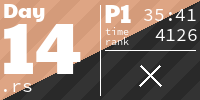
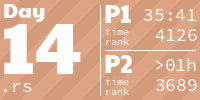
part 2

diff --git a/src/day14.rs b/src/day14.rs
@@ -40,7 +40,7 @@ fn move_robots(robots: &[Robot], area: &V2) -> Vec<Robot> {
     robots.iter().map(|robot| move_robot(robot, area)).collect()
 }
 
-fn p1(area: V2, input: &str) -> i64 {
+fn p1(area: V2, input: &str) -> i32 {
     let mut robots = parse_robots(input);
     for _ in 0..100 {
         robots = move_robots(&robots, &area);
@@ -53,7 +53,7 @@ fn p1(area: V2, input: &str) -> i64 {
     let mut bot_right = 0;
 
     let center = V2::new((area.x - 1) / 2, (area.y - 1) / 2);
-    for robot in robots {
+    for robot in &robots {
         if robot.p.x == center.x || robot.p.y == center.y {
             continue;
         }
@@ -72,13 +72,37 @@ fn p1(area: V2, input: &str) -> i64 {
 // p2
 //--------------------------------------------------------------------------------
 
-// fn p2(input: &str) -> i64 {
-//     let mut sum = 0;
-//     for machine in parse_machines(input) {
-//         sum += compute_cost(&machine, 10000000000000_i64, false);
-//     }
-//     sum
-// }
+fn display_robots(robots: &[Robot], area: &V2) {
+    let mut grid = vec![vec![0; area.x as usize]; area.y as usize];
+    for robot in robots {
+        grid[robot.p.y as usize][robot.p.x as usize] += 1;
+    }
+    for row in grid {
+        for cell in row {
+            if cell == 0 {
+                print!(".");
+            } else {
+                print!("X");
+            }
+        }
+        println!();
+    }
+}
+
+fn p2(area: V2, input: &str) -> i32 {
+    // part 2 is tricky...
+    // basically, I ran it 10000 times, outputted everthing in a file,
+    // and searched for a row of XXXXXXXXXXXXX
+    //
+    //   cargo r | grep -B 100 XXXXXXXXXXXXXXXX | less
+    let mut robots = parse_robots(input);
+    for i in 0..10000 {
+        println!("\n----------------------- {}", i);
+        display_robots(&robots, &area);
+        robots = move_robots(&robots, &area);
+    }
+    10
+}
 
 //--------------------------------------------------------------------------------
 // main
@@ -96,6 +120,11 @@ pub fn run() {
         "p1",
         "data/14_input.txt",
     );
+    // time_it(
+    //     |input| p2(V2::new(101, 103), input),
+    //     "p1",
+    //     "data/14_input.txt",
+    // );
 }
 
 #[cfg(test)]
@@ -108,6 +137,5 @@ mod tests {
             run_it(|input| p1(V2::new(11, 7), input), "data/14_sample.txt"),
             12
         );
-        // assert_eq!(run_it(p2, "data/14_sample.txt"), 875318608908);
     }
 }

diff --git a/README.md b/README.md
@@ -1,6 +1,6 @@
 <!-- AOC TILES BEGIN -->
 <h1 align="center">
-  2024 - 27 ⭐ - Rust
+  2024 - 28 ⭐ - Rust
 </h1>
 <a href="src/day01.rs">
   <img src=".aoc_tiles/tiles/2024/01.png" width="161px">
